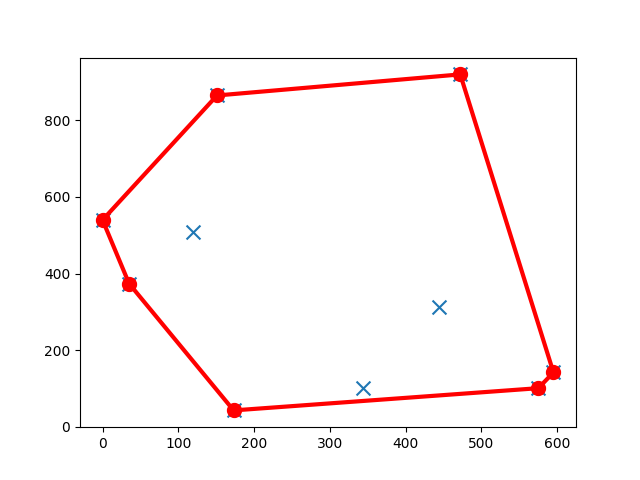
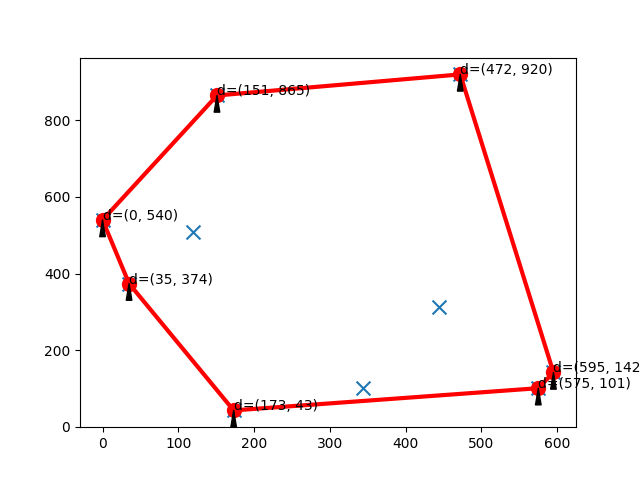
one file solution to 3

diff --git a/convex-hull/problem3.py b/convex-hull/problem3.py
@@ -1,4 +1,181 @@
-from glibrary import Point, Vector, Line, eps
+from math import sin, cos, sqrt, pi, acos
+
+eps = 10**-4
+
+class Point:
+    def __init__(self, x=0, y=0):
+        self.x = x
+        self.y = y
+
+    def __eq__(self, other):
+        return (abs(self.x - other.x) < eps) and (abs(self.y - other.y) < eps)
+
+    def __repr__(self):
+        return f"({self.x}, {self.y})"
+
+    def __str__(self):
+        return "({x}, {y})".format(x=self.x, y=self.y)
+
+    def rotate(self, deg):
+        return Point(self.x * cos(deg * pi/180) - self.y * sin(deg * pi/180), self.x * sin(deg * pi/180) + self.y * cos(deg * pi/180))
+
+    @staticmethod
+    def distance(p1, p2):
+        return sqrt((p2.x - p1.x)**2 + (p2.y - p1.y)**2)
+
+    @staticmethod
+    def midPoint(p1, p2):
+        return Point((p1.x + p2.x)/2.0, (p1.y + p2.y)/2.0)
+
+class Line:
+    def __init__(self, a=0, b=0, c=0):
+        self.a = a * 1.0
+        self.b = b * 1.0
+        self.c = c * 1.0
+        if b == 0:
+            self.slope = 1000000.0
+        else:
+            self.slope = -1 * ((a * 1.0) / b)
+
+    def __str__(self):
+        return "{A}x + {B}y + {C} = 0".format(A=self.a, B=self.b, C=self.c)
+
+    @staticmethod
+    def points2Line(p1, p2):
+        A = p2.y - p1.y
+        B = p1.x - p2.x
+        C = (p2.x * p1.y) - (p1.x*p2.y)
+        return Line(A, B, C)
+
+    def isParallelTo(self, other):
+        return (self.slope - other.slope) < eps
+
+    def intersects(self, other):
+        denom = (self.a * other.b) - (other.a * self.b)
+        if denom == 0:
+            return False
+        else:
+            x = ((other.c * self.b) - (self.c * other.b)) / denom
+            y = ((self.a * other.c) - (other.a * self.c)) / ((other.a * self.b) - (self.a * other.b))
+            return Point(x, y)
+
+    def isEquivalent(self, other):
+        if self.a != 0:
+            num = other.a / self.a
+            if abs((self.b * num) - other.b) < eps and abs((self.c * num) - other.c) < eps:
+                return True
+            else:
+                return False
+        elif self.b != 0:
+            num = other.b / self.b
+            if abs((self.c * num) - other.c) < eps:
+                return True
+            else:
+                return False
+
+    @staticmethod
+    def point2LineDist(a, b, p, option=True):
+        if option == True:
+            ap = Vector.toVector(a, p)
+            ab = Vector.toVector(a, b)
+            # perpendicular proyection of p over line
+            u = (Vector.dot(ap, ab)) / Vector.squareNorm(ab)
+            # point perpendicularly under p
+            c = Vector.translate(a, ab.scale(u))
+            return Point.distance(p, c)
+
+        if option == False:
+            line1 = Line.points2Line(a, b)
+            nv = Vector(line1.a, line1.b)
+            p2 = Vector.translate(p, nv)
+            line2 = Line.points2Line(p, p2)
+            intersection = line2.intersects(line1)
+            return Point.distance(p, intersection)
+
+    @staticmethod
+    def point2SegDist(a, b, p):
+        ap = Vector.toVector(a, p)
+        ab = Vector.toVector(a, b)
+        u = (Vector.dot(ap, ab)) / Vector.squareNorm(ab)
+        # if point is closest to a but outside ab
+        if u < 0:
+            return Point.distance(p, a)
+        # if point is inside ab
+        if u >= 0 and u <= 1:
+            c = Vector.translate(a, ab.scale(u))
+            return Point.distance(p, c)
+        # if point is closest to b but outside ab
+        if u > 1:
+            return Point.distance(p, b)
+    @staticmethod
+    def perpPoint2Seg(a, b, p):
+        ap = Vector.toVector(a, p)
+        ab = Vector.toVector(a, b)
+        u = (Vector.dot(ap, ab)) / Vector.squareNorm(ab)
+        # if point is closest to a but outside ab
+        if u < 0:
+            return a
+        # if point is inside ab
+        if u >= 0 and u <= 1:
+            c = Vector.translate(a, ab.scale(u))
+            return c
+        # if point is closest to b but outside ab
+        if u > 1:
+            return b
+
+class Vector:
+    def __init__(self, x=0, y=0):
+        self.x = x
+        self.y = y
+
+    def __str__(self):
+        return "<{X}, {Y}>".format(X=self.x, Y=self.y)
+
+    def scale(self, s):
+        return Vector((s * self.x), (s * self.y))
+
+    @staticmethod
+    def translate(p, v):
+        return Point((p.x + v.x), (p.y + v.y))
+
+    @staticmethod
+    def toVector(p1, p2):
+        return Vector((p2.x - p1.x), (p2.y - p1.y))
+
+    @staticmethod
+    def dot(u, v):
+        return ((u.x * v.x) + (u.y * v.y))
+
+    @staticmethod
+    def cross(a, b):
+        # returns the length of cross product vector
+        return ((a.x * b.y) - (a.y * b.x))
+
+    @staticmethod
+    def squareNorm(v):
+        return ((v.x * v.x) + (v.y * v.y))
+
+    @staticmethod
+    def angle(a, o, b, deg=False):
+        oa = Vector.toVector(o, a)
+        ob = Vector.toVector(o, b)
+        theta = acos(Vector.dot(oa, ob) / sqrt(Vector.squareNorm(oa) * Vector.squareNorm(ob)))
+        f = 1.0
+        if deg == True:
+            f = (180.0 / pi)
+        return theta * f
+
+    @staticmethod
+    def ccw(p, q, r):
+        pq = Vector.toVector(p, q)
+        pr = Vector.toVector(p, r)
+        return (Vector.cross(pq, pr) > 0)
+
+    @staticmethod
+    def areCollinear(p, q, r):
+        pq = Vector.toVector(p, q)
+        pr = Vector.toVector(p, r)
+        return (abs(Vector.cross(pq, pr)) < eps)
 
 n = int(input())
 pts = []
@@ -7,7 +184,7 @@ x = []
 y = []
 for i in range(n):
     row = str(input()).split()
-    newPoint = Point(float(row[0]), float(row[1]))
+    newPoint = Point(int(row[0]), int(row[1]))
     pts.append(newPoint)
     tuples.append(tuple([newPoint.x,newPoint.y]))
     x.append(newPoint.x)
@@ -17,11 +194,6 @@ sorted_lex = sorted(tuples, key=lambda k: (k[0], k[1]))
 
 L = []
 U = []
-ch_segs = []
-x2 = []
-y2 = []
-x2 = [tup[0] for tup in sorted_lex]
-y2 = [tup[1] for tup in sorted_lex]
 
 for p in sorted_lex[:2]:
     U.append(Point(p[0], p[1]))
@@ -42,12 +214,15 @@ for i in range(n - 3, -1, -1):
 del L[0]
 del L[len(L) - 1]
 CH = U + L
+#print(CH)
 
 maxs = []
 for i in range(len(CH)):
     p1 = Point(CH[i].x, CH[i].y)
     p2 = Point(CH[(i + 1) % len(CH)].x, CH[(i + 1) % len(CH)].y)
-    remaining_pts = [p for p in CH if p != p1 and p != p2]
+    #print(p1, "->", p2)
+    remaining_pts = CH
+    #remaining_pts = [p for p in CH if p != p1 and p != p2]
     cmax = 0
     for k in range(len(remaining_pts)):
         dist = Line.point2LineDist(p1, p2, remaining_pts[k])
@@ -56,4 +231,4 @@ for i in range(len(CH)):
         if dist > cmax:
             cmax = dist
     maxs.append(cmax)
-print(round(min(maxs), 2))
+print(str(round(min(maxs), 2)))

diff --git a/convex-hull/convex-hull.py b/convex-hull/convex-hull.py
@@ -2,6 +2,7 @@ from glibrary import Point, Line, Vector, eps
 import matplotlib.pyplot as plt
 from matplotlib import collections  as mc
 
+write_points = True
 n = int(input())
 pts = []
 tuples = []
@@ -62,8 +63,12 @@ fig = plt.figure()
 fig.add_subplot()
 ax1 = plt.gca()
 
-
+pts_str = [str(p) for p in CH]
 ax1.scatter(x2,y2, s=100, marker="x")
 ax1.scatter(x,y, s=100, marker="o", color="red")
 ax1.add_collection(mc.LineCollection(ch_segs, color='red', linewidths=3))
+if write_points == True:
+    for i in range(len(CH)):
+        coord = tuple([CH[i].x, CH[i].y])
+        ax1.annotate("d={a}".format(a=pts_str[i]), xy=coord, xytext=coord, size=10, arrowprops = dict(facecolor ='black',width=1,headwidth=4))
 plt.show()
